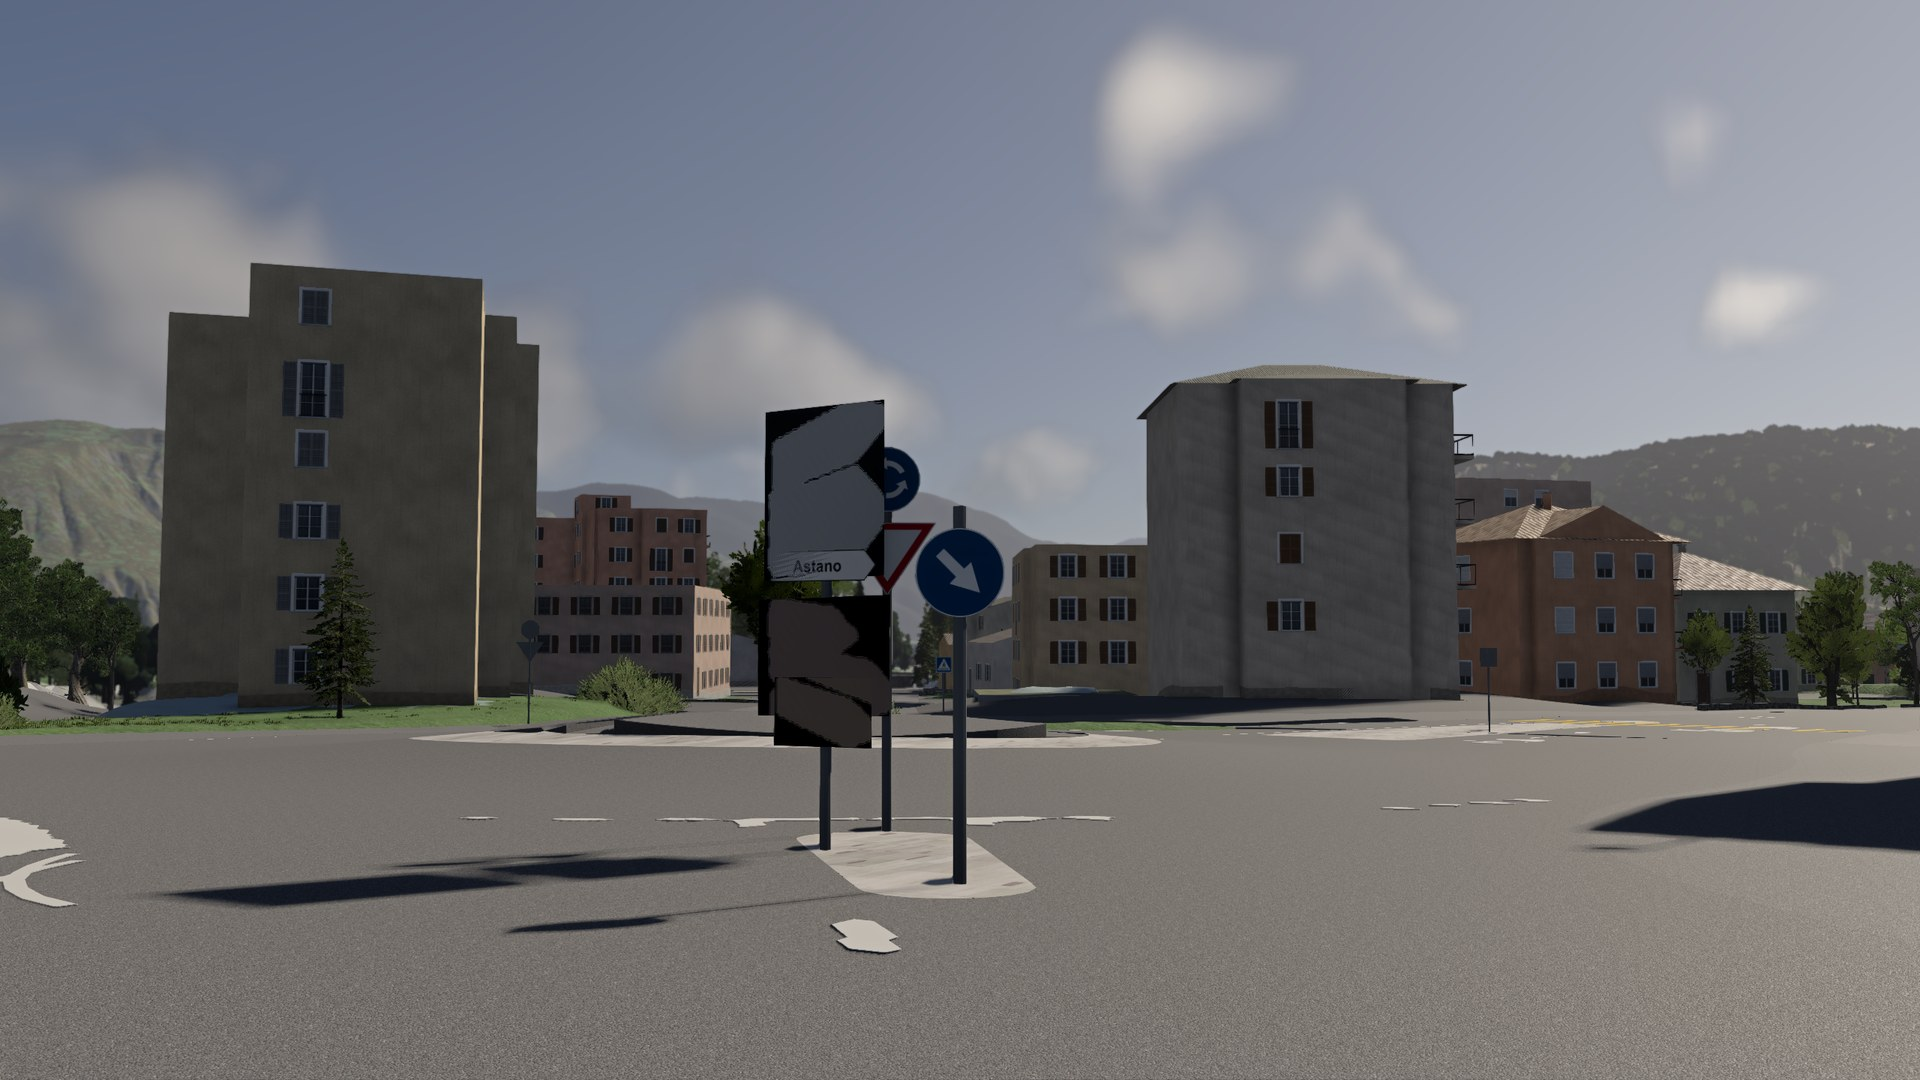
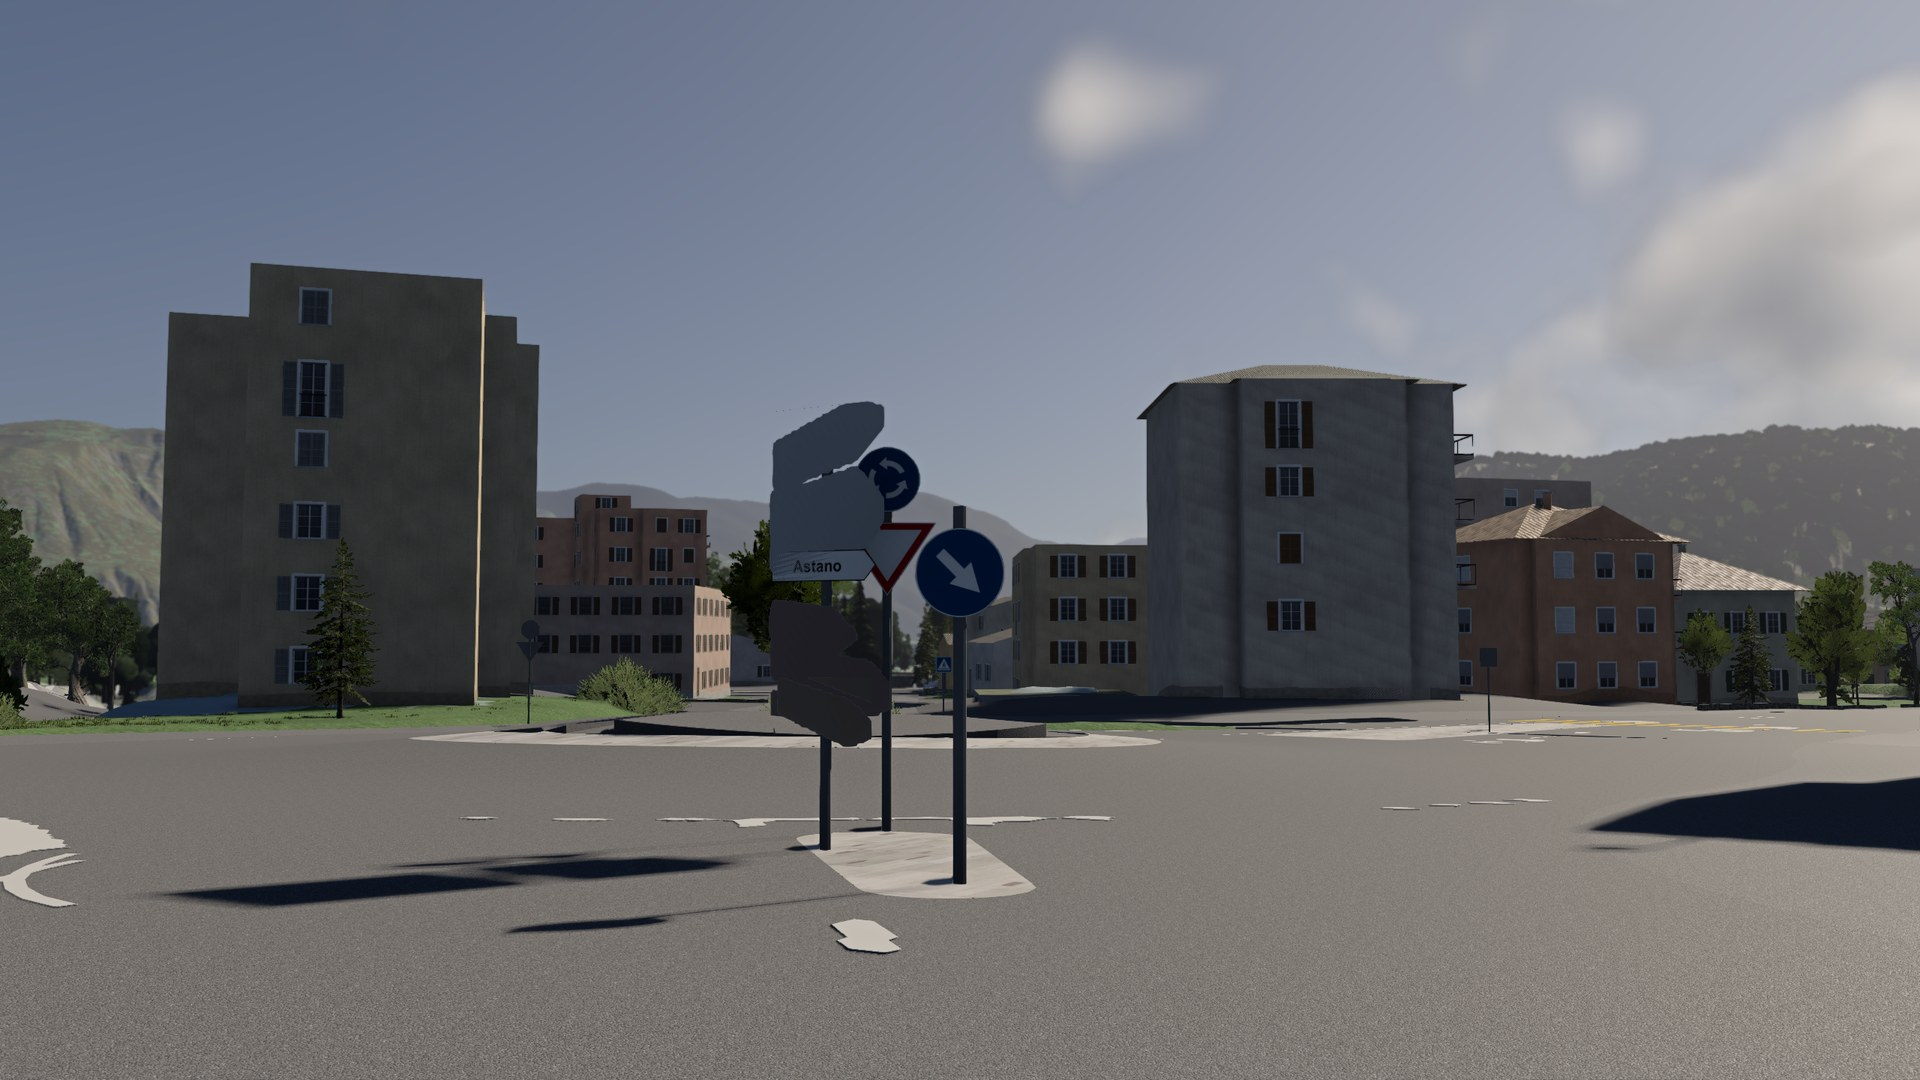
v2.7 round 2 in the game: panorama plates without dark rectangles
patch_signs.py run again on v26t.zip (panorama_opacity_maps 67):
magliaso_pura_v2.7.zip 516368447 bytes, MD5 31363db433a99e07bb240b0c58ec91de.
The kept panorama plates now show only their measured outline.

The first zip of this round had two opacity maps the game could not read
(sign_024_0_o, sign_084_1_o: "stream doesn't contain a PNG"): deflated, they
came out exactly their own size and the game read the entries as stored.
patch_signs.py now writes PNG entries stored.

Retaken: signs_cantonale_233, signs_cantonale_pointer, signs_zone30,
signs_stop; test.json updated (zip, round 2 check, problems empty).
run_final_screenshots.ps1: -Views and -TestJson.

diff --git a/beamng/pipeline/patch_signs.py b/beamng/pipeline/patch_signs.py
@@ -566,7 +566,10 @@ def main(src, dst, report=None):
                     continue
             zo.writestr(i, data, compress_type=i.compress_type)
         for n, data in sorted(files.items()):
-            zo.writestr(zipfile.ZipInfo(n, date_time=time.localtime()[:6]), data, compress_type=zipfile.ZIP_DEFLATED)
+            # PNGs stored: a deflated PNG can come out exactly its own size, and the game then reads the entry
+            # as stored and finds no PNG in it (sign_024_0_o, sign_084_1_o in the first build of round 2)
+            zo.writestr(zipfile.ZipInfo(n, date_time=time.localtime()[:6]), data,
+                        compress_type=zipfile.ZIP_STORED if n.endswith(".png") else zipfile.ZIP_DEFLATED)
     out = {"placed": dict(rep["placed"]), "left_out": dict(rep["left_out"]), "outside_map": dict(rep["outside"]),
            "outside_map_total": sum(rep["outside"].values()),
            "replaced_panorama": rep["replaced_panorama"], "old_plate_triangles_turned": rep["flipped_triangles"], "panorama_plates_removed": len(drop),
